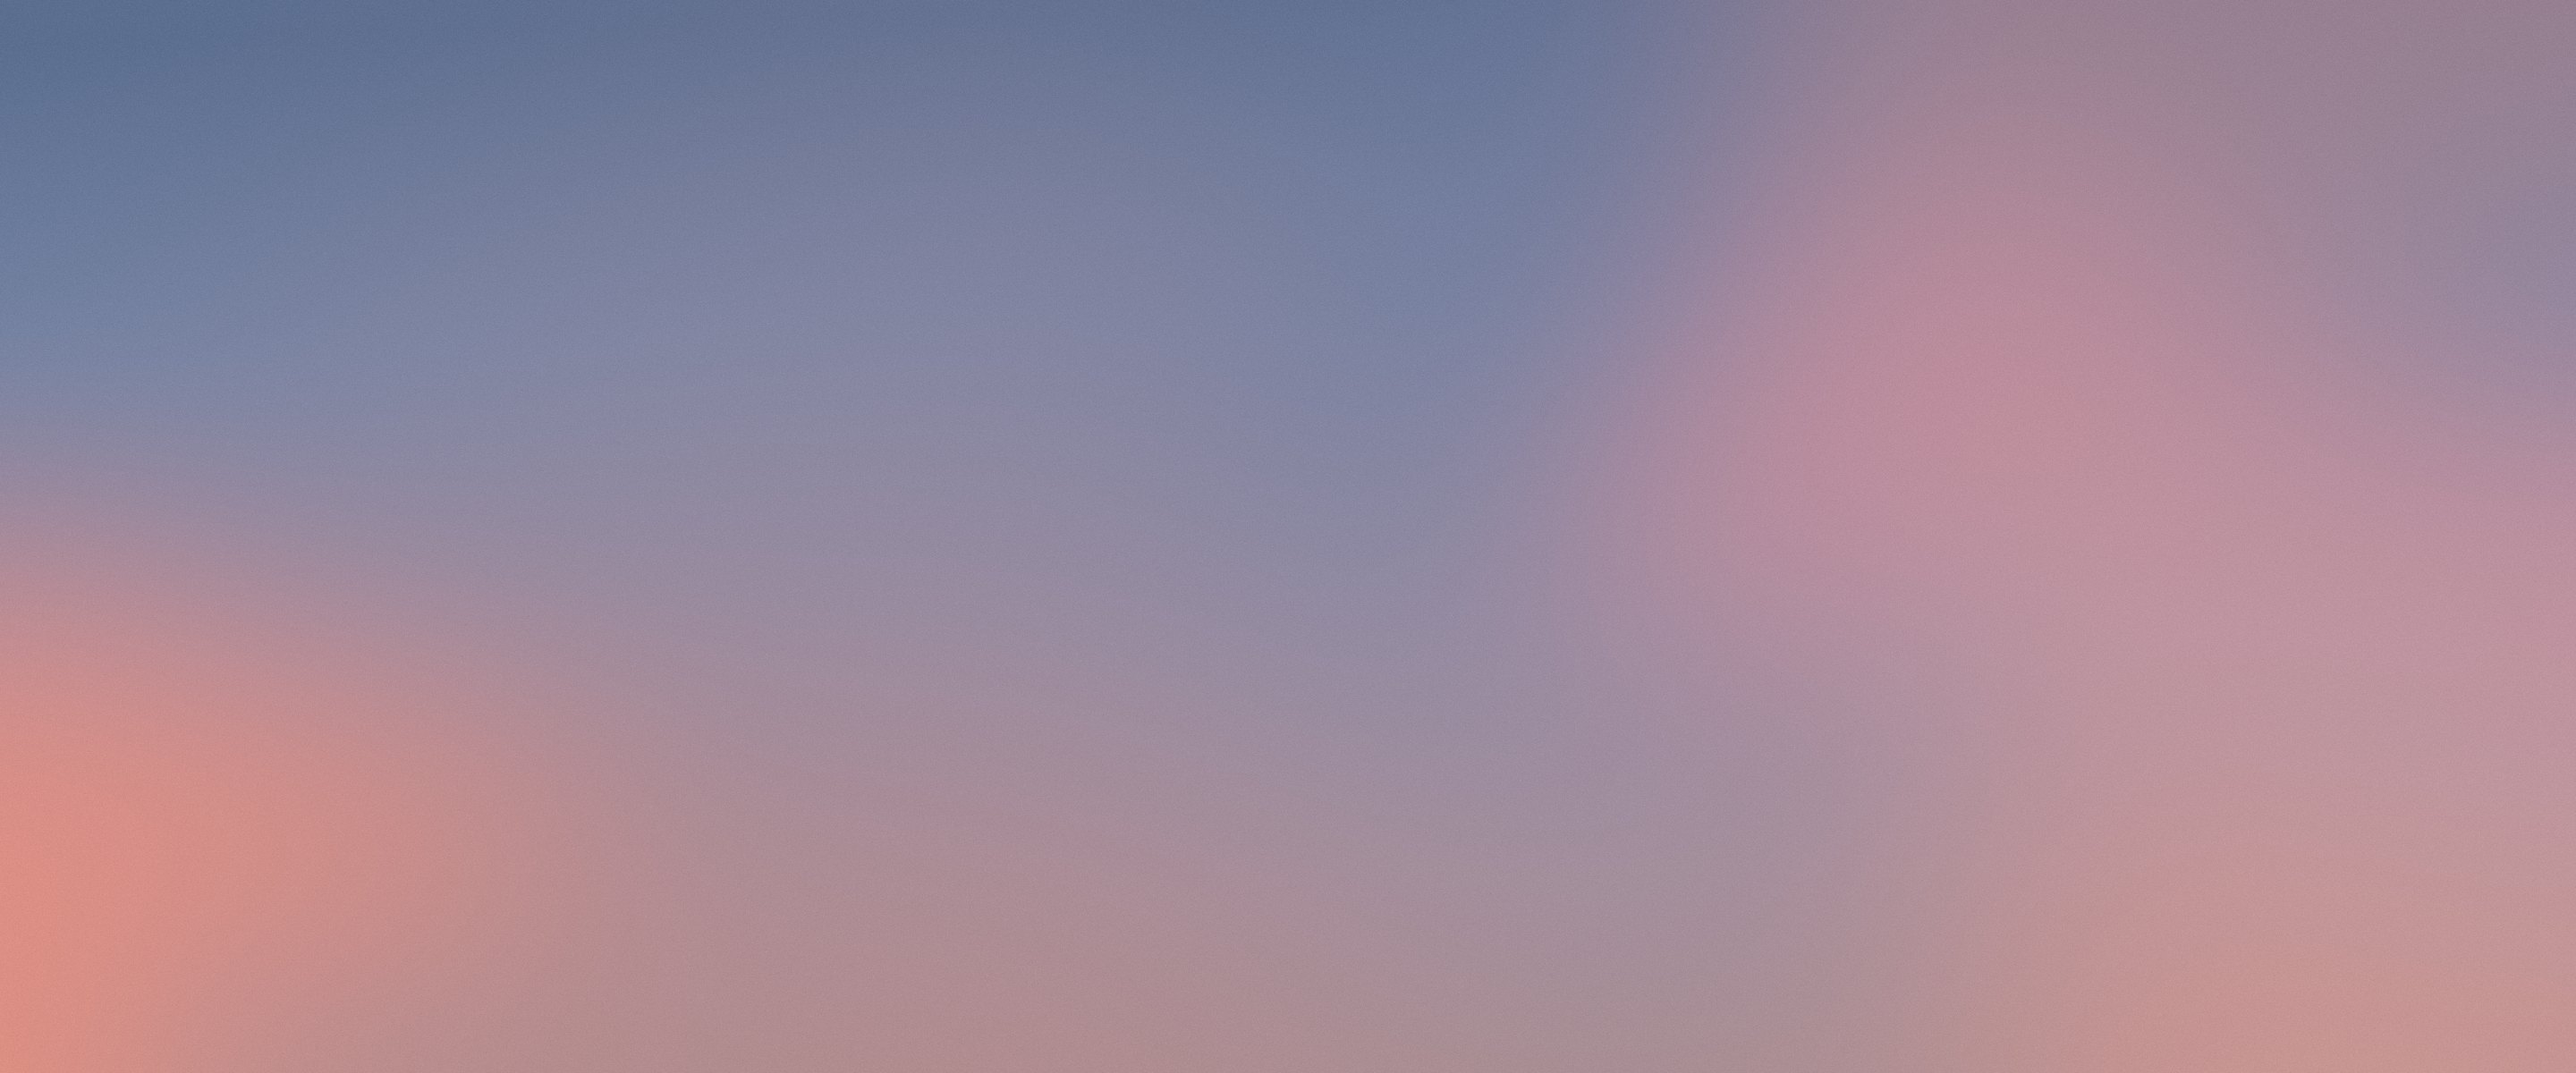
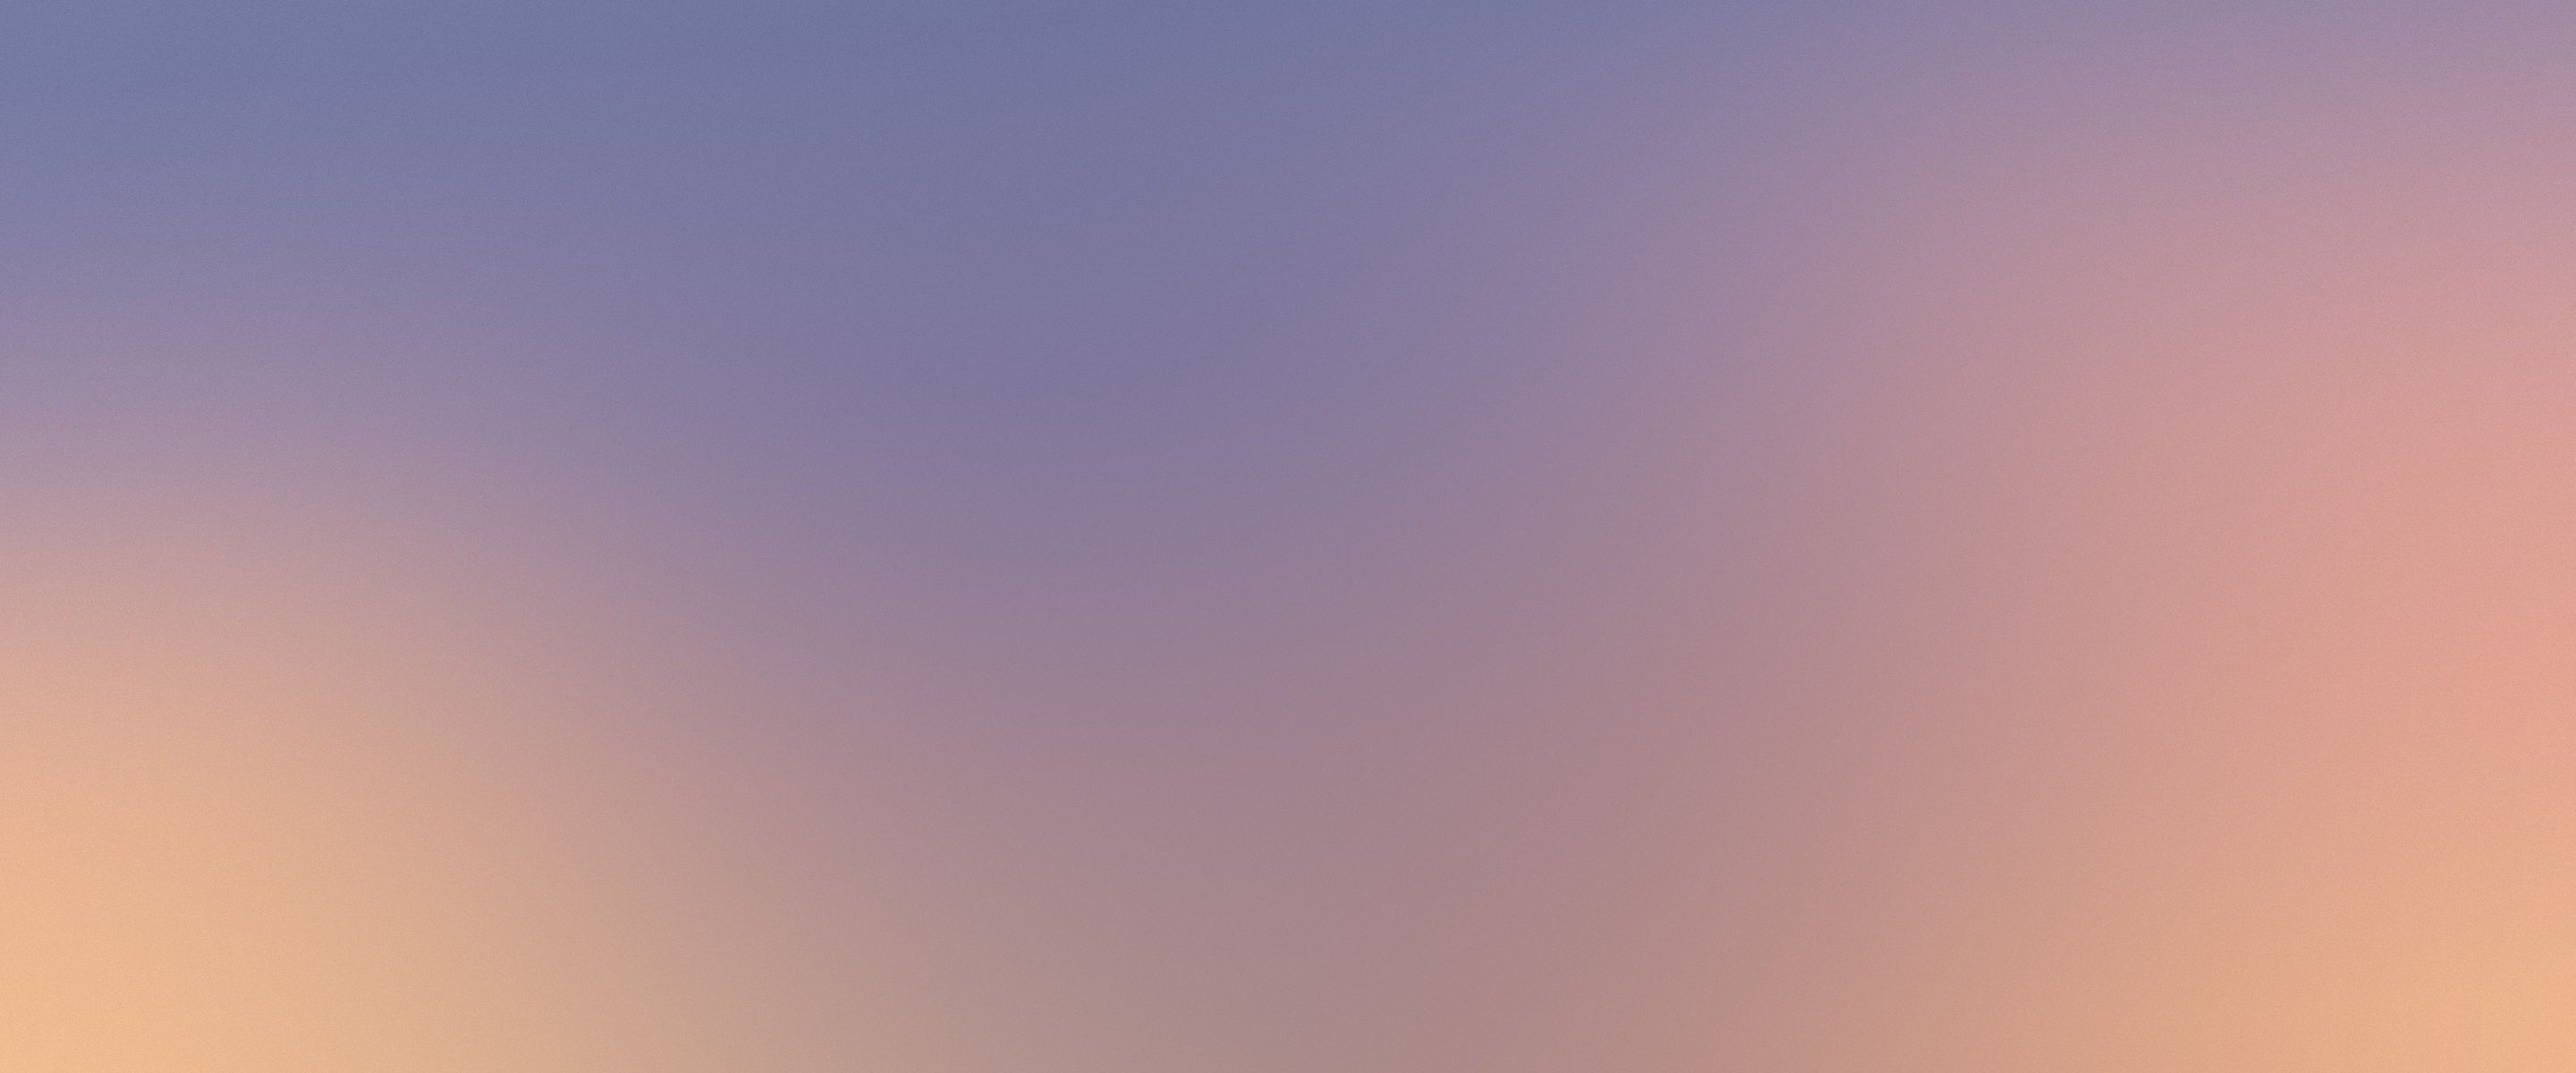
Site: Golden hour sky

diff --git a/index.html b/index.html
@@ -26,8 +26,8 @@
     <style>
       /* Swoop brand v2 */
       :root {
-        --dusk: #4a5a82; --slate: #5f7393; --peri: #9aa5cc; --mauve: #9c8a9e; --rose: #d29b9e; --peach: #e8a986;
-        --shell: #f4dccb; --cream: #f6f3ee; --mist: #eeeae4; --haze: #e2ddd6; --stone: #6b6670;
+        --dusk: #4a5a82; --slate: #6e76a0; --peri: #7d7fa6; --mauve: #a890a8; --rose: #f2a88e; --peach: #f6c291;
+        --shell: #f8e2cc; --cream: #f6f3ee; --mist: #eeeae4; --haze: #e2ddd6; --stone: #6b6670;
         --graphite: #3b3840; --ink: #1e1c21; --night: #262a3b;
         --freed: #86ad95; --freed-t: #3f6b52; --review: #d8ac6c; --review-t: #85590f; --danger: #c8776d; --danger-t: #a3433a;
         --sage: #6fa59c; --sage-t: #3b6f68; --sage-soft: #a9d3c9;
@@ -122,7 +122,7 @@
       }
 
       /* hero */
-      .x-hero { background-color: #55638a; padding: 136px 0 88px; --shade: linear-gradient(180deg, rgba(30, 34, 52, 0.34) 0%, rgba(30, 34, 52, 0) 26%), linear-gradient(90deg, rgba(30, 34, 52, 0.42) 0%, rgba(30, 34, 52, 0.18) 48%, rgba(30, 34, 52, 0) 72%); }
+      .x-hero { background-color: #62668f; padding: 136px 0 88px; --shade: linear-gradient(180deg, rgba(30, 34, 52, 0.34) 0%, rgba(30, 34, 52, 0) 26%), linear-gradient(90deg, rgba(30, 34, 52, 0.42) 0%, rgba(30, 34, 52, 0.18) 48%, rgba(30, 34, 52, 0) 72%); }
       .x-hero__grid { display: grid; grid-template-columns: 1.05fr 1fr; gap: clamp(32px, 5vw, 72px); align-items: center; }
       .x-hero .x-lede { color: rgba(255, 255, 255, 0.92); }
       @keyframes x-float { 50% { transform: translateY(-8px); } }
